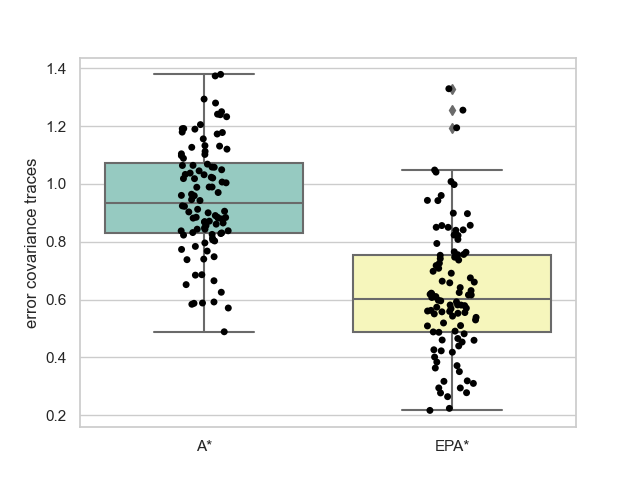
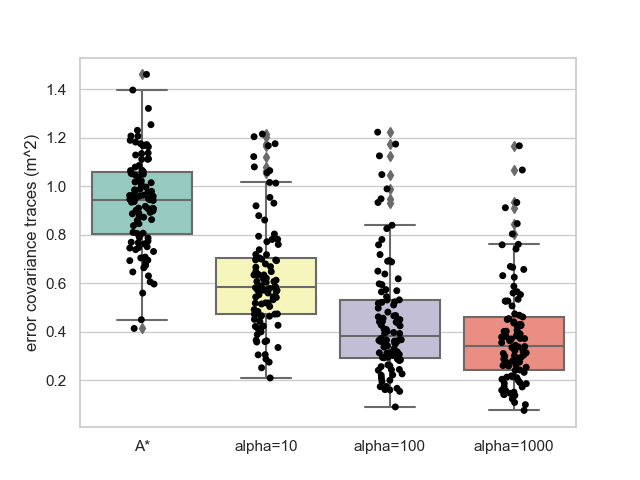
add results in the branch

diff --git a/astar.py b/astar.py
@@ -8,7 +8,7 @@ def euclidianDist(a, b, unused1, unused2):
     return math.sqrt((a[0] - b[0]) ** 2 + (a[1] - b[1]) ** 2)
 
 def errorProp(a, b, P, alpha):
-    
+
     dist = euclidianDist(a, b, None, None)
     return dist + alpha * np.trace(P)
 
@@ -130,10 +130,10 @@ if __name__ == "__main__":
     import time
     import matplotlib.pyplot as plt
     
-    display = False
+    display = True
     num_vertices = 1000
     radius = 10
-    num_iterations = 100
+    num_iterations = 1
     path_lengths = [[], [], [], []]
     error_covs = [[], [], [], []]
     for iteration in range(num_iterations):
@@ -148,14 +148,15 @@ if __name__ == "__main__":
         end = tuple(np.random.uniform(low=world_map.y_limit * 0.9, high=world_map.y_limit, size=2))
         
         astar_error1 = RoverAStar(graph, world_map, start=start, goal=end, cost_type="error", alpha=10)
-        astar_error2 = RoverAStar(graph, world_map, start=start, goal=end, cost_type="error", alpha=100)
-        astar_error3 = RoverAStar(graph, world_map, start=start, goal=end, cost_type="error", alpha=1000)
+        # astar_error2 = RoverAStar(graph, world_map, start=start, goal=end, cost_type="error", alpha=100)
+        # astar_error3 = RoverAStar(graph, world_map, start=start, goal=end, cost_type="error", alpha=1000)
         astar_dist   = RoverAStar(graph, world_map, start=start, goal=end, cost_type="distance", alpha=None)
         error_node1 = astar_error1.run()
-        error_node2 = astar_error2.run()
-        error_node3 = astar_error3.run()
+        # error_node2 = astar_error2.run()
+        # error_node3 = astar_error3.run()
         dist_node = astar_dist.run()
-        nodes = [error_node1, error_node2, error_node3, dist_node]
+        nodes = [error_node1, dist_node]
+        # nodes = [error_node1, error_node2, error_node3, dist_node]
         colors = ["r", "r", "r", "b"]
         
         plt.imshow(world_map.map)
@@ -183,27 +184,28 @@ if __name__ == "__main__":
             path_x.append(path[-1][0])
             path_y.append(path[-1][1])
             if index == 0:
-                plt.plot(path_x, path_y, 'ro-', label='alpha=10')
-            elif index == 1:
+                plt.plot(path_x, path_y, 'ro-', label='EPA*')
+            elif index == 3:
                 plt.plot(path_x, path_y, 'ro--', label='alpha=100')
             elif index == 2:
                 plt.plot(path_x, path_y, 'ro:', label='alpha=1000')
-            elif index == 3:
+            elif index == 1:
                 plt.plot(path_x, path_y, 'bo-', label='A*')
                 
             path_lengths[index].append(dist)
-        
+        plt.xlabel('x [m]')
+        plt.ylabel('y [m]')
         plt.legend()
         
         if display:
             plt.show()
             
-        plt.savefig("samples_alpha/paths_%d.png" % iteration)
-        plt.clf()
+        # plt.savefig("paths_%d.png" % iteration)
+        # plt.clf()
 
-        # print(error_covs, path_lengths)
-        import pickle
-        with open("sample_data_alpha_%dvertices_%.2fradius.pickle" % (num_vertices, radius), "wb") as f:
-            pickle.dump({"path_lengths" : path_lengths, "error_covs" : error_covs}, f)
+        # # print(error_covs, path_lengths)
+        # import pickle
+        # with open("sample_data_alpha_%dvertices_%.2fradius.pickle" % (num_vertices, radius), "wb") as f:
+        #     pickle.dump({"path_lengths" : path_lengths, "error_covs" : error_covs}, f)
         
     

diff --git a/get_results_alpha.py b/get_results_alpha.py
@@ -1,0 +1,72 @@
+import seaborn as sns
+import matplotlib.pyplot as plt
+import numpy as np
+import pandas as pd
+import pickle
+
+with open("sample_data_alpha_1000vertices_10.00radius.pickle", "rb") as f:
+    data = pickle.load(f)
+
+error_dists10 = data['path_lengths'][0]
+error_dists100 = data['path_lengths'][1]
+error_dists1000 = data['path_lengths'][2]
+astar_dists = data['path_lengths'][3]
+
+error_covs10 = data['error_covs'][0]
+error_covs100 = data['error_covs'][1]
+error_covs1000 = data['error_covs'][2]
+astar_covs = data['error_covs'][3]
+
+error_dist_mean10 = np.mean(error_dists10)
+error_dist_mean100 = np.mean(error_dists100)
+error_dist_mean1000 = np.mean(error_dists1000)
+astar_dist_mean = np.mean(astar_dists)
+
+error_cov_mean10 = np.mean(error_covs10)
+error_cov_mean100 = np.mean(error_covs100)
+error_cov_mean1000 = np.mean(error_covs1000)
+astar_cov_mean = np.mean(astar_covs)
+
+print("Mean path lengths: (A*, EPA*): (%.2f, %.2f)" % (astar_dist_mean, error_dist_mean10))
+print("Difference in path length from A* to EPA*: %.2f%%\n" % ((error_dist_mean10 - astar_dist_mean) * 100 / astar_dist_mean))
+
+print("Mean error covariance traces: (A*, EPA*): (%.4f, %.4f)" % (np.mean(astar_covs), np.mean(error_covs10)))
+print("Difference in error covariance trace from A* to EPA*: %.2f%%\n" % ((error_cov_mean10 - astar_cov_mean) * 100 / astar_cov_mean))
+
+sns.set()
+sns.set_style('whitegrid')
+sns.set_palette('Set3')
+
+df_length = pd.DataFrame({
+    'A*': astar_dists,
+    'alpha=10': error_dists10,
+    'alpha=100': error_dists100,
+    'alpha=1000': error_dists1000,
+})
+
+df_length = pd.melt(df_length)
+
+fig = plt.figure()
+sns.boxplot(x='variable', y='value', data=df_length)
+sns.stripplot(x='variable', y='value', data=df_length, jitter=True, color='black')
+plt.xlabel(' ')
+plt.ylabel('path lengths (m)')
+plt.savefig('fig/boxplot_dist.png')
+plt.show()
+
+df_covs = pd.DataFrame({
+    'A*': astar_covs,
+    'alpha=10': error_covs10,
+    'alpha=100': error_covs100,
+    'alpha=1000': error_covs1000,
+})
+
+df_covs = pd.melt(df_covs)
+
+fig = plt.figure()
+sns.boxplot(x='variable', y='value', data=df_covs)
+sns.stripplot(x='variable', y='value', data=df_covs, jitter=True, color='black')
+plt.xlabel(' ')
+plt.ylabel('error covariance traces (m^2)')
+plt.savefig('fig/boxplot_cov.png')
+plt.show()

diff --git a/plan_mars.py b/plan_mars.py
@@ -11,7 +11,7 @@ if __name__ == '__main__':
 
     world_map = MapGenerator()
     world_map.get_mars_map()
-    world_map.select_location((580, 680), (100, 200))
+    world_map.select_location((590, 690), (100, 200))
 
     plt.imshow(world_map.map)
     plt.show()
@@ -26,19 +26,15 @@ if __name__ == '__main__':
     start = tuple(np.random.uniform(low=0, high=world_map.x_limit * 0.1, size=2))
     end = tuple(np.random.uniform(low=world_map.y_limit * 0.9, high=world_map.y_limit, size=2))
 
-    astar_error = RoverAStar(graph, world_map, start=start, goal=end, cost_type="error")
-    astar_dist  = RoverAStar(graph, world_map, start=start, goal=end, cost_type="distance")
+    astar_error = RoverAStar(graph, world_map, start=start, goal=end, cost_type="error", alpha=10)
+    astar_dist  = RoverAStar(graph, world_map, start=start, goal=end, cost_type="distance", alpha=None)
     error_node = astar_error.run()
     dist_node = astar_dist.run()
     nodes = [error_node, dist_node]
     colors = ["r", "b"]
 
     plt.imshow(world_map.map)
-    for node, color in zip(nodes, colors):
-        if color == "r":
-            index = 0
-        else:
-            index = 1
+    for index, (node, color) in enumerate(zip(nodes, colors)):
 
         error_covs[index].append(np.trace(node.P))
 
@@ -49,14 +45,29 @@ if __name__ == '__main__':
             node = node.parent
 
         dist = 0
+        path_x = []
+        path_y = []
         for i in range(len(path) - 1):
 
             dx = path[i + 1][0] - path[i][0]
             dy = path[i + 1][1] - path[i][1]
             dist += np.linalg.norm((dx, dy))
+            path_x.append(path[i][0])
+            path_y.append(path[i][1])
 
-            plt.plot((path[i][0], path[i+1][0]), (path[i][1], path[i+1][1]), '%so-' % color)
+        path_x.append(path[-1][0])
+        path_y.append(path[-1][1])
+        if index == 0:
+            plt.plot(path_x, path_y, 'ro-', label='EPA*')
+        elif index == 1:
+            plt.plot(path_x, path_y, 'bo-', label='A*')
 
         path_lengths[index].append(dist)
+
+    print(error_covs, path_lengths)
+
+    plt.xlabel('x [m]')
+    plt.ylabel('y [m]')
+    plt.legend()
 
     plt.show()

diff --git a/rover_map.py b/rover_map.py
@@ -110,11 +110,10 @@ class MapGenerator:
 if __name__ == '__main__':
     # test each method
     mg = MapGenerator(x_limit=100, y_limit=100, x_pixels=100, y_pixels=100)
-    rover_map = mg.get_mars_map()
+    rover_map = mg.get_random_map()
     plt.imshow(mg.map)
+    plt.xlabel('x [m]')
+    plt.ylabel('y [m]')
     plt.savefig('fig/binary_mars.png')
     plt.show()
 
-    mg.select_location((600, 700), (100, 200))
-    plt.imshow(mg.map)
-    plt.show()
